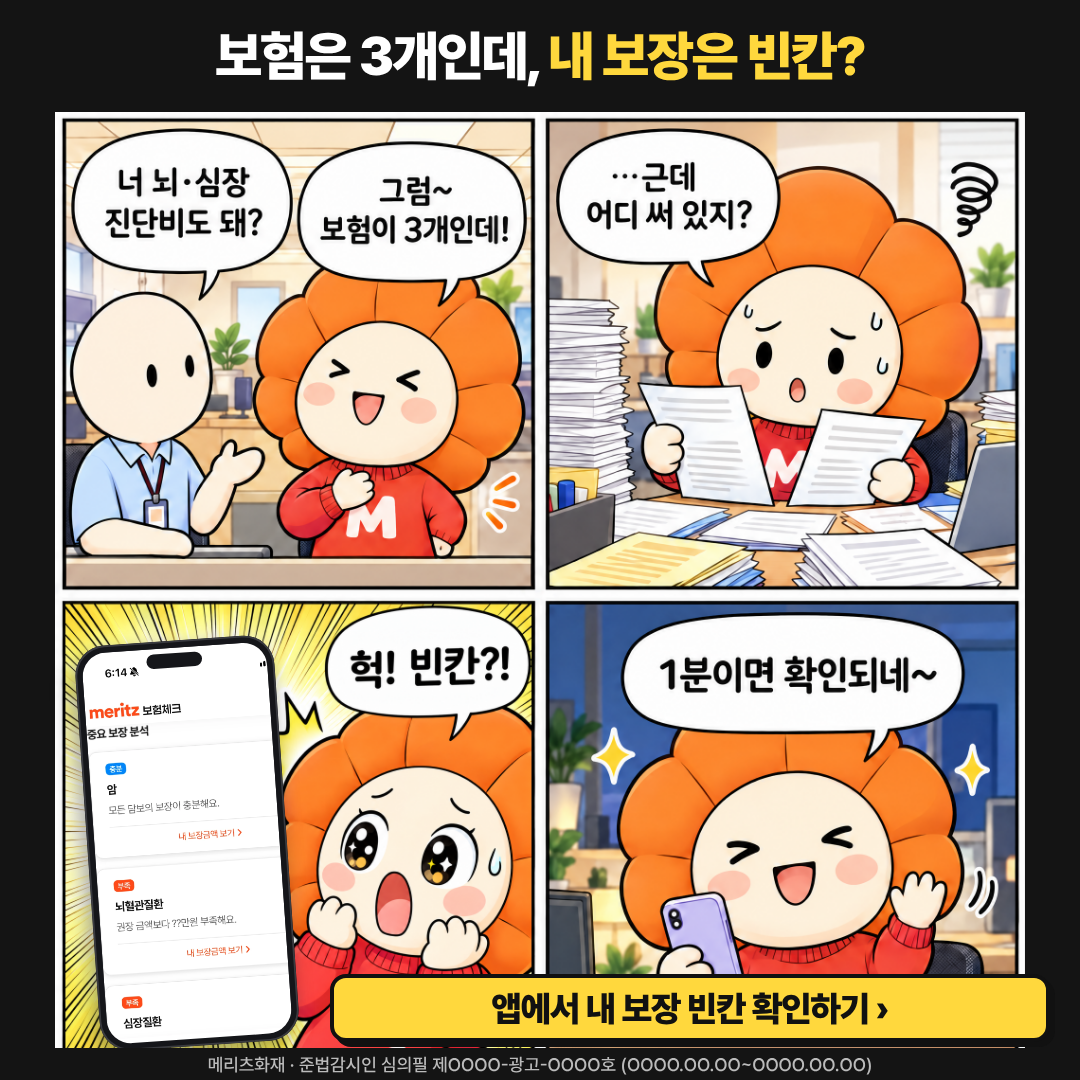
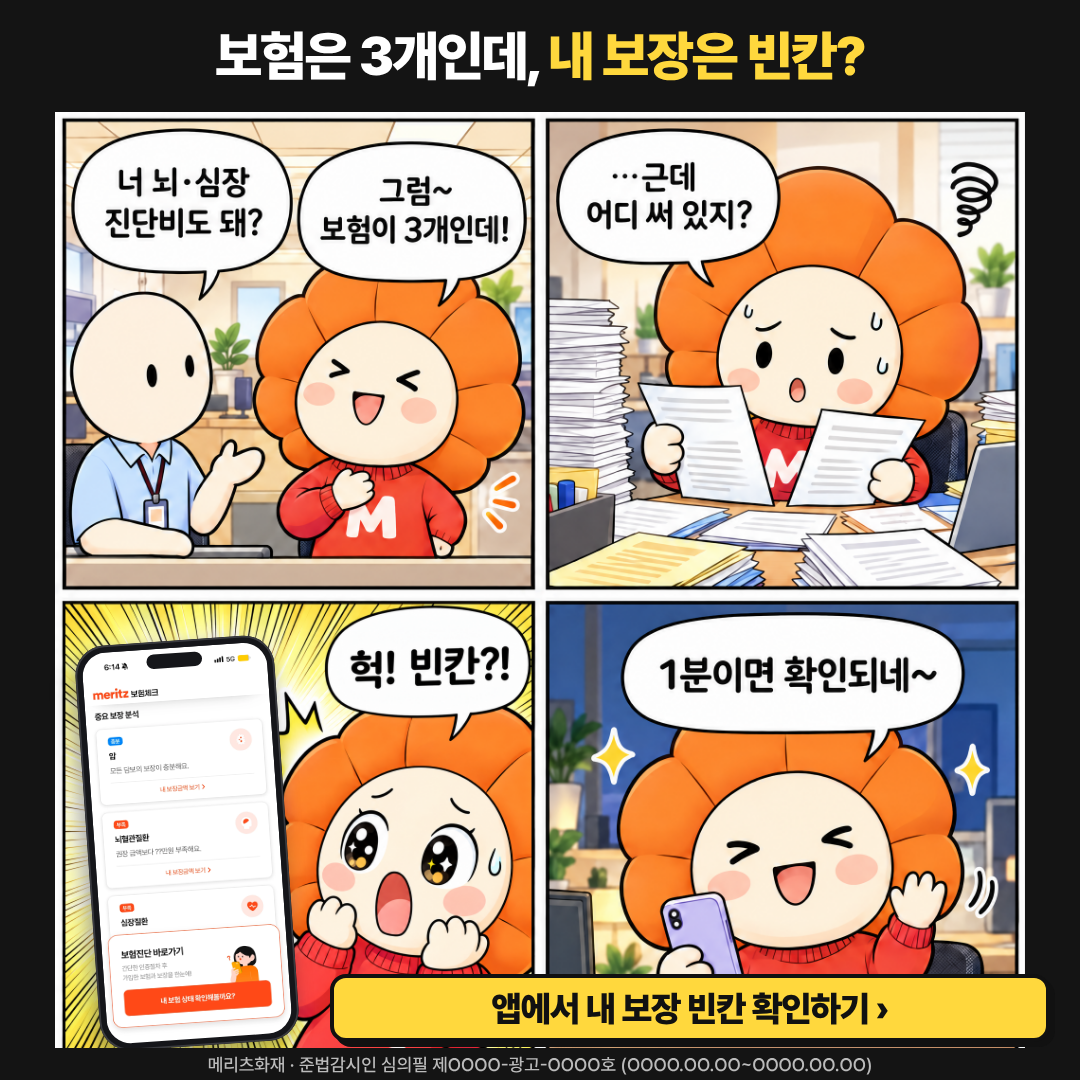
Meta APP 보장분석: use full-width app screens in phone mockups
Claude-Session: https://claude.ai/code/session_013e8rDmejoULvKZjUJrMpP5

Changed region(s): [[0.0611, 0.6111, 0.275, 0.9778], [0.2139, 0.6722, 0.2444, 0.7028]]

diff --git a/creatives/meta_app_bojang_2026-11-10/native_1x1/src/T5_B.html b/creatives/meta_app_bojang_2026-11-10/native_1x1/src/T5_B.html
@@ -8,4 +8,4 @@
 .ph{position:absolute;left:36px;top:588px;width:222px;height:452px;background:#15161a;border-radius:34px;padding:8px;transform:rotate(-4deg);box-shadow:-6px 10px 22px rgba(0,0,0,.35),inset 0 0 0 2px #3a3b40}.ph:before{content:"";position:absolute;left:50%;top:14px;width:62px;height:16px;margin-left:-31px;background:#15161a;border-radius:10px;z-index:2}.ph .sc{width:100%;height:100%;border-radius:27px;overflow:hidden;background:#fff}.ph img{width:100%;display:block}
 .cta{position:absolute;left:330px;right:30px;top:974px;height:68px;background:#FFD83D;color:#111;border:4px solid #111;box-shadow:5px 5px 0 #111;border-radius:16px;display:flex;align-items:center;justify-content:center;font-size:35px;font-weight:900;letter-spacing:-1px}
 .ft{position:absolute;left:0;right:0;bottom:0;height:32px;background:#141414;display:flex;align-items:center;justify-content:center;font-size:18px;color:#bbb;font-weight:500}
-</style></head><body><div id="a"><div class="bar"><span>보험은 3개인데, <em>내 보장은 빈칸?</em></span></div><div class="wrap"><img class="cm" src="pnb.png"><div class="ph"><div class="sc"><img src="tallB.png"></div></div></div><div class="cta">앱에서 내 보장 빈칸 확인하기 ›</div><div class="ft">메리츠화재 · 준법감시인 심의필 제OOOO-광고-OOOO호 (OOOO.OO.OO~OOOO.OO.OO)</div></div></body></html>
+</style></head><body><div id="a"><div class="bar"><span>보험은 3개인데, <em>내 보장은 빈칸?</em></span></div><div class="wrap"><img class="cm" src="pnb.png"><div class="ph"><div class="sc"><img src="fullB.png"></div></div></div><div class="cta">앱에서 내 보장 빈칸 확인하기 ›</div><div class="ft">메리츠화재 · 준법감시인 심의필 제OOOO-광고-OOOO호 (OOOO.OO.OO~OOOO.OO.OO)</div></div></body></html>

diff --git a/creatives/meta_app_bojang_2026-11-10/native_1x1/src/T5_C.html b/creatives/meta_app_bojang_2026-11-10/native_1x1/src/T5_C.html
@@ -8,4 +8,4 @@
 .ph{position:absolute;left:36px;top:588px;width:222px;height:452px;background:#15161a;border-radius:34px;padding:8px;transform:rotate(-4deg);box-shadow:-6px 10px 22px rgba(0,0,0,.35),inset 0 0 0 2px #3a3b40}.ph:before{content:"";position:absolute;left:50%;top:14px;width:62px;height:16px;margin-left:-31px;background:#15161a;border-radius:10px;z-index:2}.ph .sc{width:100%;height:100%;border-radius:27px;overflow:hidden;background:#fff}.ph img{width:100%;display:block}
 .cta{position:absolute;left:330px;right:30px;top:974px;height:68px;background:#FFD83D;color:#111;border:4px solid #111;box-shadow:5px 5px 0 #111;border-radius:16px;display:flex;align-items:center;justify-content:center;font-size:35px;font-weight:900;letter-spacing:-1px}
 .ft{position:absolute;left:0;right:0;bottom:0;height:32px;background:#141414;display:flex;align-items:center;justify-content:center;font-size:18px;color:#bbb;font-weight:500}
-</style></head><body><div id="a"><div class="bar"><span>나만 <em>또래보다 보장이 부족할까?</em></span></div><div class="wrap"><img class="cm" src="pnc.png"><div class="ph"><div class="sc"><img src="tallC.png"></div></div></div><div class="cta">앱에서 또래 보장 비교하기 ›</div><div class="ft">메리츠화재 · 준법감시인 심의필 제OOOO-광고-OOOO호 (OOOO.OO.OO~OOOO.OO.OO)</div></div></body></html>
+</style></head><body><div id="a"><div class="bar"><span>나만 <em>또래보다 보장이 부족할까?</em></span></div><div class="wrap"><img class="cm" src="pnc.png"><div class="ph"><div class="sc"><img src="fullC.png"></div></div></div><div class="cta">앱에서 또래 보장 비교하기 ›</div><div class="ft">메리츠화재 · 준법감시인 심의필 제OOOO-광고-OOOO호 (OOOO.OO.OO~OOOO.OO.OO)</div></div></body></html>

diff --git a/creatives/meta_app_bojang_2026-11-10/carousel_C_peer_1x1/src/MR4.html b/creatives/meta_app_bojang_2026-11-10/carousel_C_peer_1x1/src/MR4.html
@@ -10,4 +10,4 @@
 .ph .sc{width:100%;height:100%;border-radius:41px;overflow:hidden;background:#fff}.ph img{width:100%;display:block}
 .hl{font-family:'Jua';letter-spacing:-2px;line-height:1.08}
 </style></head><body><div id="a"><img class="bg" src="f_m4.png"><div class="cap">다음 날, 친구가 알려준 메리츠 보험체크</div>
-<div class="ph" style="left:46px;top:176px;width:330px;height:715px;transform:rotate(-4deg)"><div class="sc"><img src="tallC.png"></div></div><div class="pg">4/6</div><div class="ft">메리츠화재 · 준법감시인 심의필 제OOOO-광고-OOOO호 (OOOO.OO.OO~OOOO.OO.OO)</div></div></body></html>
+<div class="ph" style="left:46px;top:176px;width:330px;height:715px;transform:rotate(-4deg)"><div class="sc"><img src="fullC.png"></div></div><div class="pg">4/6</div><div class="ft">메리츠화재 · 준법감시인 심의필 제OOOO-광고-OOOO호 (OOOO.OO.OO~OOOO.OO.OO)</div></div></body></html>
